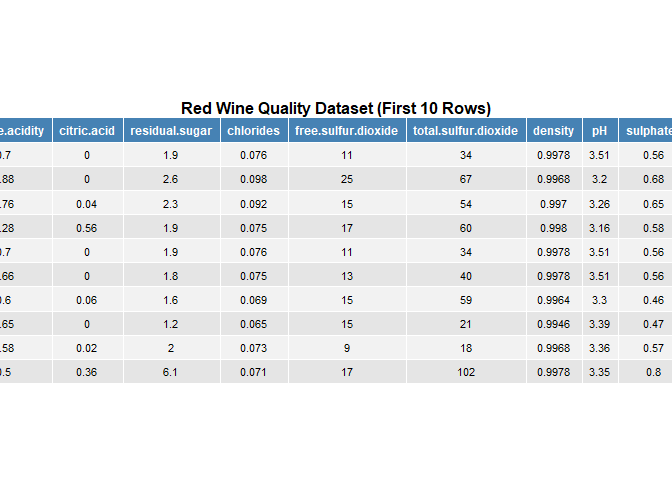
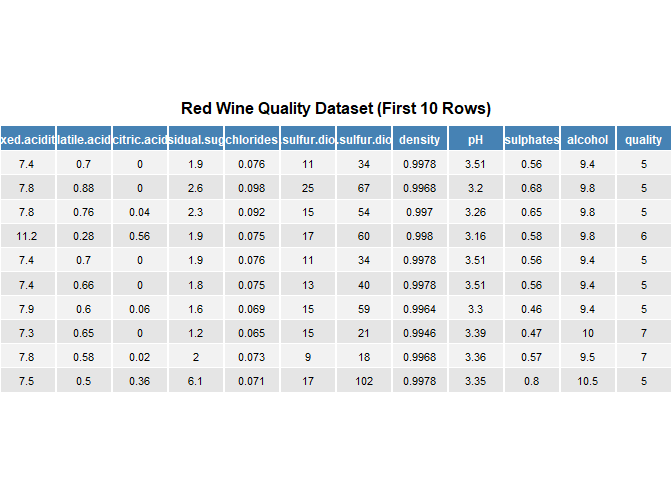
adjustments

Changed region(s): [[0.0, 0.2188, 1.0, 0.8438], [0.4688, 0.6562, 0.5312, 0.6875], [0.2188, 0.6562, 0.2812, 0.6875]]

diff --git a/EDA.md b/EDA.md
@@ -14,7 +14,139 @@ This analysis is based on the UCI Wine Quality Data Set, which provides physicoc
 
 Next we load the red wine dataset and explore its structure. The red and white wine datasets from the UCI Wine Quality Data Set were first loaded separately and then combined into a single dataset with an added type column to indicate wine variety. Initial inspection showed that the data contained no missing values and all variables were already numeric, eliminating the need for imputation or type conversion. The quality variable, which represents the wine’s rating by sensory analysts, was preserved in both numeric form (for correlation analysis) and as an ordered factor (for boxplots and group comparisons). No outliers were removed, as visual inspections of distributions indicated that extreme values were within realistic chemical ranges. Overall, the dataset required minimal cleaning and was ready for analysis after labeling, verification, and structure alignment.
 
-<img src="figures/Table1-1.png" style="display: block; margin: auto;" />
+    ## 
+    ## Red Wine Data Summary:
+
+    ##                               Feature_red Type_red Measurement_red
+    ## fixed.acidity               fixed.acidity  numeric           Ratio
+    ## volatile.acidity         volatile.acidity  numeric           Ratio
+    ## citric.acid                   citric.acid  numeric           Ratio
+    ## residual.sugar             residual.sugar  numeric           Ratio
+    ## chlorides                       chlorides  numeric           Ratio
+    ## free.sulfur.dioxide   free.sulfur.dioxide  numeric           Ratio
+    ## total.sulfur.dioxide total.sulfur.dioxide  numeric           Ratio
+    ## density                           density  numeric           Ratio
+    ## pH                                     pH  numeric        Interval
+    ## sulphates                       sulphates  numeric           Ratio
+    ## alcohol                           alcohol  numeric           Ratio
+    ## quality                           quality  integer         Ordinal
+
+    ## 
+    ## Numeric Summary Statistics (Red Wine):
+
+    ##  fixed.acidity   volatile.acidity  citric.acid    residual.sugar  
+    ##  Min.   : 4.60   Min.   :0.1200   Min.   :0.000   Min.   : 0.900  
+    ##  1st Qu.: 7.10   1st Qu.:0.3900   1st Qu.:0.090   1st Qu.: 1.900  
+    ##  Median : 7.90   Median :0.5200   Median :0.260   Median : 2.200  
+    ##  Mean   : 8.32   Mean   :0.5278   Mean   :0.271   Mean   : 2.539  
+    ##  3rd Qu.: 9.20   3rd Qu.:0.6400   3rd Qu.:0.420   3rd Qu.: 2.600  
+    ##  Max.   :15.90   Max.   :1.5800   Max.   :1.000   Max.   :15.500  
+    ##    chlorides       free.sulfur.dioxide total.sulfur.dioxide    density      
+    ##  Min.   :0.01200   Min.   : 1.00       Min.   :  6.00       Min.   :0.9901  
+    ##  1st Qu.:0.07000   1st Qu.: 7.00       1st Qu.: 22.00       1st Qu.:0.9956  
+    ##  Median :0.07900   Median :14.00       Median : 38.00       Median :0.9968  
+    ##  Mean   :0.08747   Mean   :15.87       Mean   : 46.47       Mean   :0.9967  
+    ##  3rd Qu.:0.09000   3rd Qu.:21.00       3rd Qu.: 62.00       3rd Qu.:0.9978  
+    ##  Max.   :0.61100   Max.   :72.00       Max.   :289.00       Max.   :1.0037  
+    ##        pH          sulphates         alcohol         quality     
+    ##  Min.   :2.740   Min.   :0.3300   Min.   : 8.40   Min.   :3.000  
+    ##  1st Qu.:3.210   1st Qu.:0.5500   1st Qu.: 9.50   1st Qu.:5.000  
+    ##  Median :3.310   Median :0.6200   Median :10.20   Median :6.000  
+    ##  Mean   :3.311   Mean   :0.6581   Mean   :10.42   Mean   :5.636  
+    ##  3rd Qu.:3.400   3rd Qu.:0.7300   3rd Qu.:11.10   3rd Qu.:6.000  
+    ##  Max.   :4.010   Max.   :2.0000   Max.   :14.90   Max.   :8.000
+
+    ## 
+    ## White Wine Data Summary:
+
+    ##                             Feature_white Type_white Measurement_white
+    ## fixed.acidity               fixed.acidity    numeric             Ratio
+    ## volatile.acidity         volatile.acidity    numeric             Ratio
+    ## citric.acid                   citric.acid    numeric             Ratio
+    ## residual.sugar             residual.sugar    numeric             Ratio
+    ## chlorides                       chlorides    numeric             Ratio
+    ## free.sulfur.dioxide   free.sulfur.dioxide    numeric             Ratio
+    ## total.sulfur.dioxide total.sulfur.dioxide    numeric             Ratio
+    ## density                           density    numeric             Ratio
+    ## pH                                     pH    numeric          Interval
+    ## sulphates                       sulphates    numeric             Ratio
+    ## alcohol                           alcohol    numeric             Ratio
+    ## quality                           quality    integer           Ordinal
+
+    ## 
+    ## Numeric Summary Statistics (White Wine):
+
+    ##  fixed.acidity    volatile.acidity  citric.acid     residual.sugar  
+    ##  Min.   : 3.800   Min.   :0.0800   Min.   :0.0000   Min.   : 0.600  
+    ##  1st Qu.: 6.300   1st Qu.:0.2100   1st Qu.:0.2700   1st Qu.: 1.700  
+    ##  Median : 6.800   Median :0.2600   Median :0.3200   Median : 5.200  
+    ##  Mean   : 6.855   Mean   :0.2782   Mean   :0.3342   Mean   : 6.391  
+    ##  3rd Qu.: 7.300   3rd Qu.:0.3200   3rd Qu.:0.3900   3rd Qu.: 9.900  
+    ##  Max.   :14.200   Max.   :1.1000   Max.   :1.6600   Max.   :65.800  
+    ##    chlorides       free.sulfur.dioxide total.sulfur.dioxide    density      
+    ##  Min.   :0.00900   Min.   :  2.00      Min.   :  9.0        Min.   :0.9871  
+    ##  1st Qu.:0.03600   1st Qu.: 23.00      1st Qu.:108.0        1st Qu.:0.9917  
+    ##  Median :0.04300   Median : 34.00      Median :134.0        Median :0.9937  
+    ##  Mean   :0.04577   Mean   : 35.31      Mean   :138.4        Mean   :0.9940  
+    ##  3rd Qu.:0.05000   3rd Qu.: 46.00      3rd Qu.:167.0        3rd Qu.:0.9961  
+    ##  Max.   :0.34600   Max.   :289.00      Max.   :440.0        Max.   :1.0390  
+    ##        pH          sulphates         alcohol         quality     
+    ##  Min.   :2.720   Min.   :0.2200   Min.   : 8.00   Min.   :3.000  
+    ##  1st Qu.:3.090   1st Qu.:0.4100   1st Qu.: 9.50   1st Qu.:5.000  
+    ##  Median :3.180   Median :0.4700   Median :10.40   Median :6.000  
+    ##  Mean   :3.188   Mean   :0.4898   Mean   :10.51   Mean   :5.878  
+    ##  3rd Qu.:3.280   3rd Qu.:0.5500   3rd Qu.:11.40   3rd Qu.:6.000  
+    ##  Max.   :3.820   Max.   :1.0800   Max.   :14.20   Max.   :9.000
+
+    ## 
+    ## Combined Wine Data Summary:
+
+    ## $`Red Wine Summary`
+    ##                               Feature_red Type_red Measurement_red
+    ## fixed.acidity               fixed.acidity  numeric           Ratio
+    ## volatile.acidity         volatile.acidity  numeric           Ratio
+    ## citric.acid                   citric.acid  numeric           Ratio
+    ## residual.sugar             residual.sugar  numeric           Ratio
+    ## chlorides                       chlorides  numeric           Ratio
+    ## free.sulfur.dioxide   free.sulfur.dioxide  numeric           Ratio
+    ## total.sulfur.dioxide total.sulfur.dioxide  numeric           Ratio
+    ## density                           density  numeric           Ratio
+    ## pH                                     pH  numeric        Interval
+    ## sulphates                       sulphates  numeric           Ratio
+    ## alcohol                           alcohol  numeric           Ratio
+    ## quality                           quality  integer         Ordinal
+    ## 
+    ## $`White Wine Summary`
+    ##                             Feature_white Type_white Measurement_white
+    ## fixed.acidity               fixed.acidity    numeric             Ratio
+    ## volatile.acidity         volatile.acidity    numeric             Ratio
+    ## citric.acid                   citric.acid    numeric             Ratio
+    ## residual.sugar             residual.sugar    numeric             Ratio
+    ## chlorides                       chlorides    numeric             Ratio
+    ## free.sulfur.dioxide   free.sulfur.dioxide    numeric             Ratio
+    ## total.sulfur.dioxide total.sulfur.dioxide    numeric             Ratio
+    ## density                           density    numeric             Ratio
+    ## pH                                     pH    numeric          Interval
+    ## sulphates                       sulphates    numeric             Ratio
+    ## alcohol                           alcohol    numeric             Ratio
+    ## quality                           quality    integer           Ordinal
+
+| Feature | Description |
+|:---|:---|
+| fixed.acidity | Fixed acidity: Tartaric acid concentration (g/dm^3) |
+| volatile.acidity | Volatile acidity: Acetic acid (vinegar-like) concentration (g/dm^3) |
+| citric.acid | Citric acid: Citric acid concentration (g/dm^3), adds freshness and flavor |
+| residual.sugar | Residual sugar: Amount of sugar left after fermentation (g/dm^3) |
+| chlorides | Chlorides: Salt content (sodium chloride) (g/dm^3) |
+| free.sulfur.dioxide | Free sulfur dioxide: Free SO2 protects wine from oxidation and microbes (mg/dm^3) |
+| total.sulfur.dioxide | Total sulfur dioxide: Total SO2 including bound and free forms (mg/dm^3) |
+| density | Density: Density of wine, related to sugar and alcohol (g/cm^3) |
+| pH | pH: Acidity level; lower pH means more acidic |
+| sulphates | Sulphates: Added for microbial stability (g/dm^3) |
+| alcohol | Alcohol: Alcohol content (% vol) |
+| quality | Quality: Quality score (0–10) rated by wine tasters |
+
+\`\`\`
 
 <img src="EDA_files/figure-gfm/Table2-1.png" style="display: block; margin: auto auto auto 0;" />
 
